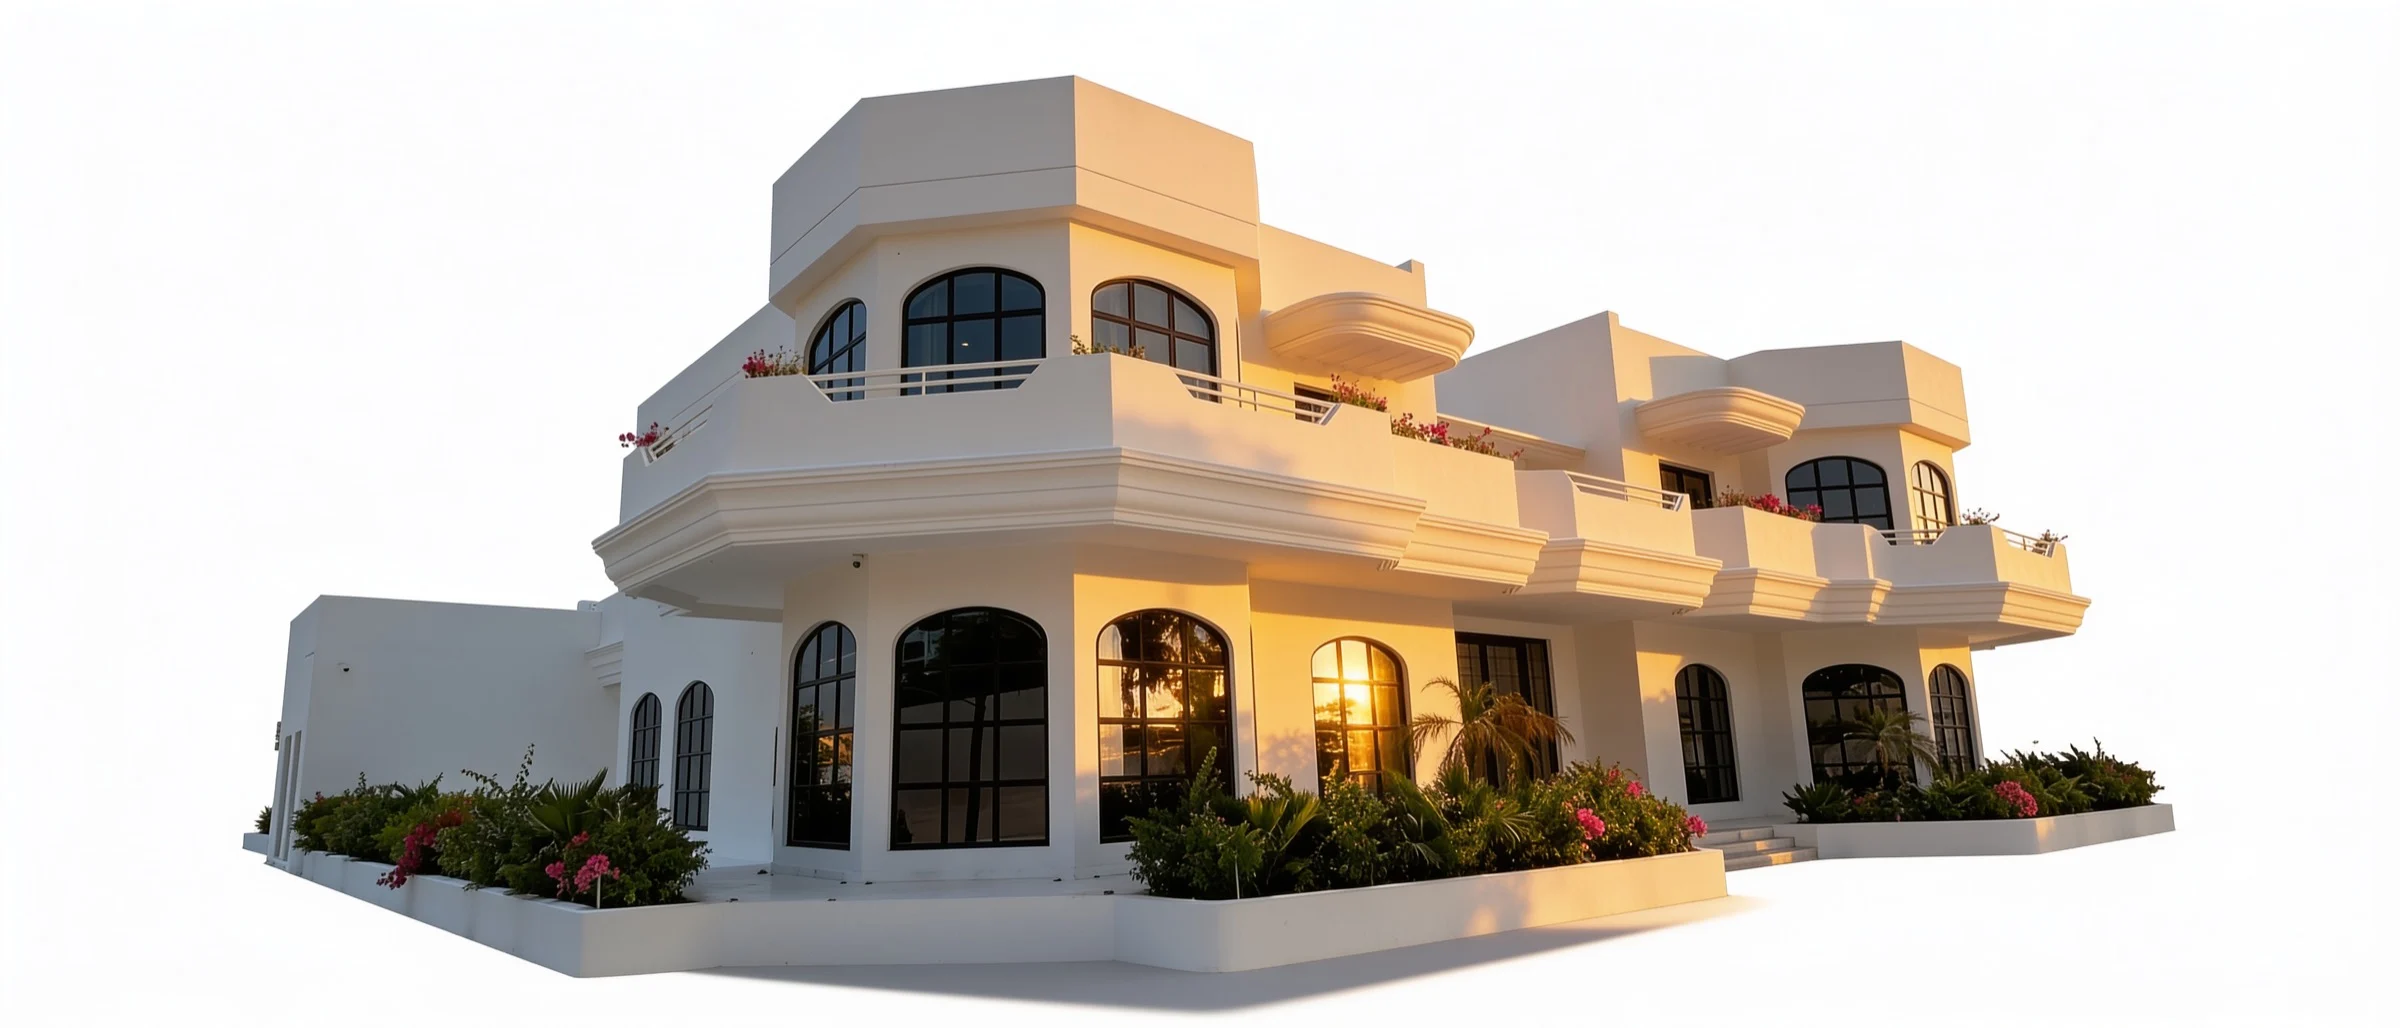
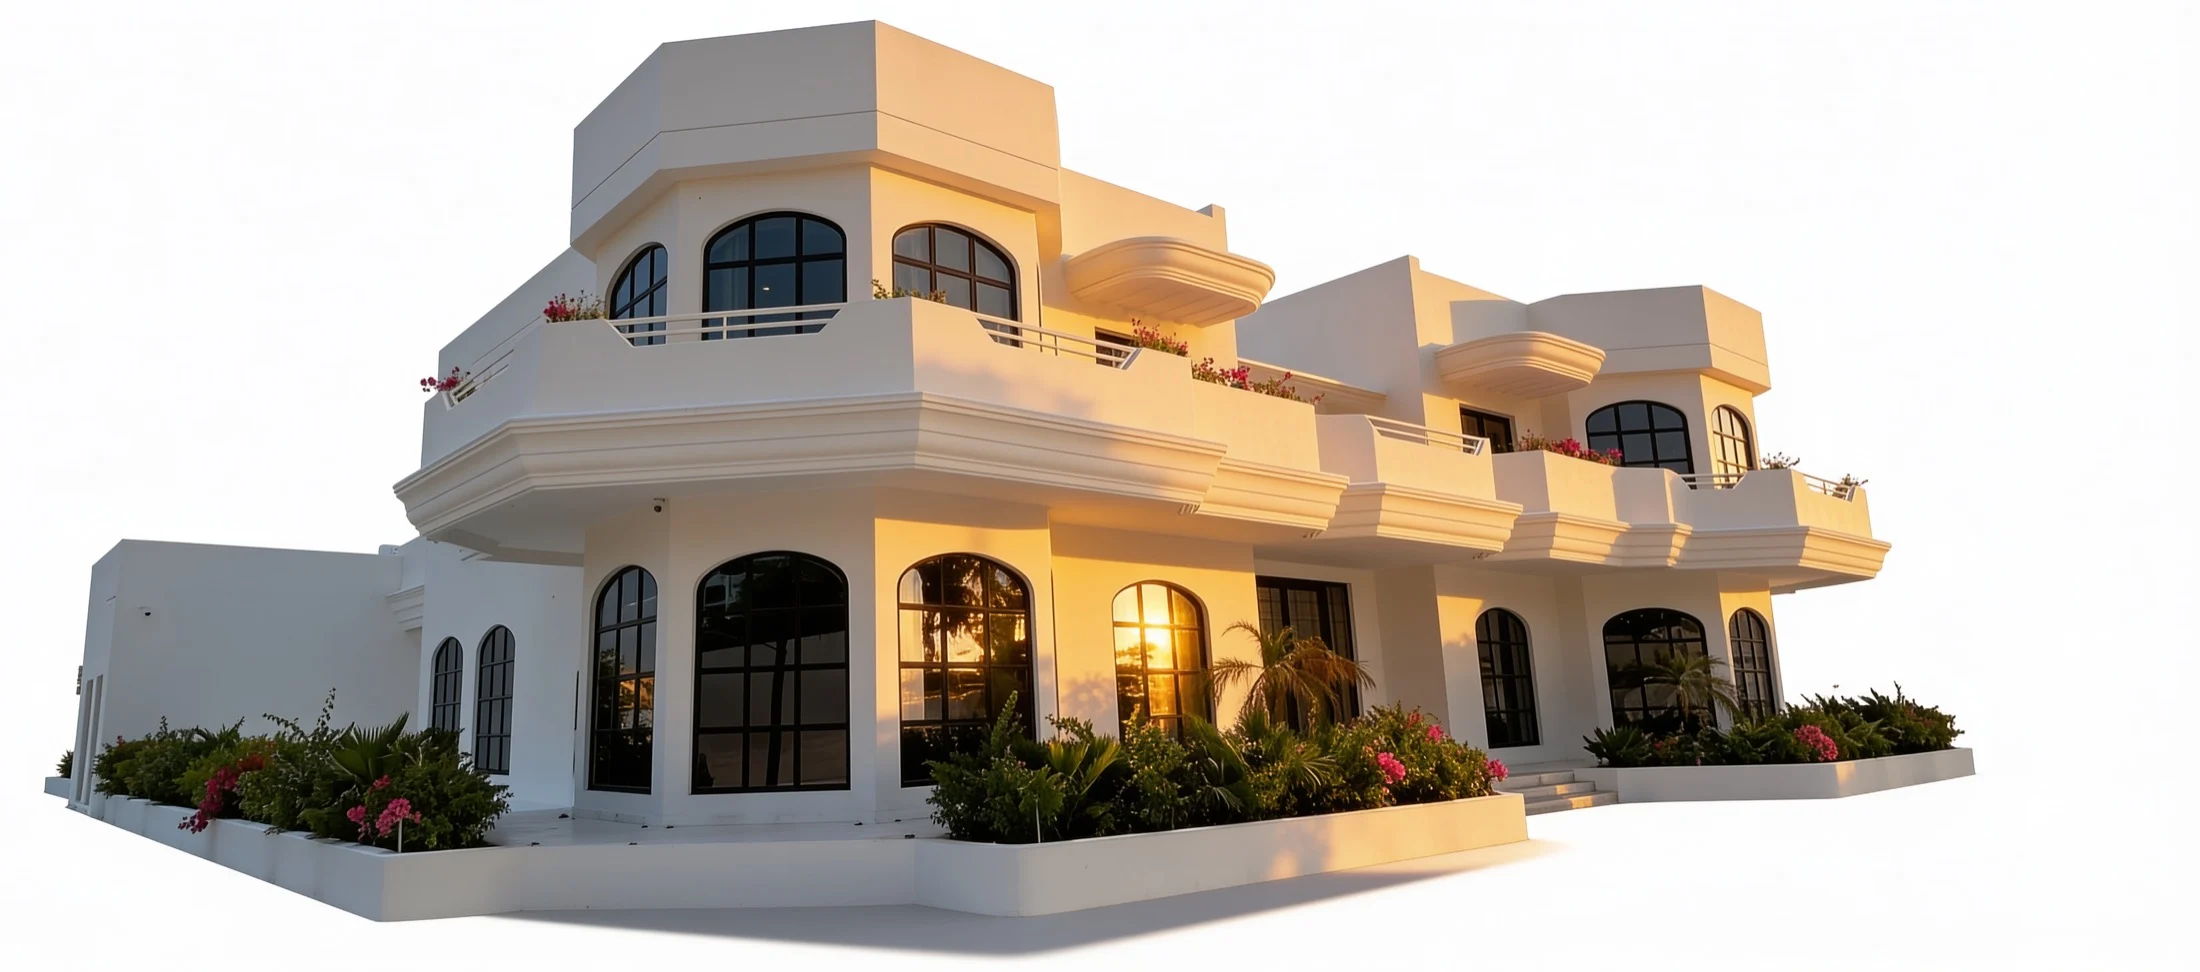
preview: villa floated to the side (text on reading side)

diff --git a/index.html b/index.html
@@ -185,15 +185,17 @@ html[data-lang="ar"] .intro__cue{ font-family:var(--ar-sans); letter-spacing:.02
 .intro__cue .bar{ width:1px; height:46px; background:var(--gold); transform-origin:top; animation:cue 2.4s var(--ease-in-out) infinite; }
 @keyframes cue{ 0%,100%{ transform:scaleY(.3); opacity:.4 } 50%{ transform:scaleY(1); opacity:1 } }
 
-/* ============================================================ 2 · HERO (light · text above, villa cut-out floating on white) */
-.hero{ min-height:100svh; background:var(--paper); position:relative; overflow:hidden; display:flex; flex-direction:column; }
-.hero__inner{ position:relative; z-index:2; flex:0 0 auto; width:100%; max-width:var(--maxw); margin:0 auto;
-  padding:clamp(104px,14vh,168px) var(--pad) clamp(12px,2vh,26px); color:var(--ink); }
+/* ============================================================ 2 · HERO (light · text on the reading side, villa cut-out floating on the other) */
+.hero{ min-height:100svh; background:var(--paper); position:relative; overflow:hidden; }
+.hero__inner{ position:relative; z-index:2; width:100%; max-width:var(--maxw); margin:0 auto; min-height:100svh;
+  display:flex; flex-direction:column; justify-content:center; align-items:flex-start;
+  padding:clamp(118px,16vh,190px) var(--pad) clamp(40px,7vh,90px); color:var(--ink); }
+.hero__inner > *{ max-width:min(46%,560px); }   /* keep text on its side, clear of the villa */
 .hero__eyebrow{ color:var(--gold-deep); }
 .hero__eyebrow::before{ background:var(--gold); }
-.hero__h{ font-size:clamp(2.4rem,4.6vw,5rem); margin:.4em 0 0; max-width:16ch; color:var(--ink); line-height:1.0; }
+.hero__h{ font-size:clamp(2.4rem,4.6vw,5rem); margin:.4em 0 0; max-width:13ch; color:var(--ink); line-height:1.0; }
 .hero__h em{ color:var(--gold-deep); font-style:italic; }
-html[data-lang="ar"] .hero__h{ max-width:18ch; line-height:1.16; }
+html[data-lang="ar"] .hero__h{ max-width:14ch; line-height:1.16; }
 html[data-lang="ar"] .hero__h em{ font-style:normal; color:var(--gold-deep); }
 .hero__cta{ display:flex; gap:14px 22px; flex-wrap:wrap; align-items:center; margin-top:clamp(26px,3.6vh,44px); }
 .hero__textlink{ display:inline-flex; align-items:center; gap:.7em; font-family:var(--sans); font-size:13px; letter-spacing:.08em; text-transform:uppercase; color:var(--ink); }
@@ -205,18 +207,17 @@ html[data-lang="ar"] .hero__textlink{ font-family:var(--ar-sans); letter-spacing
 html[data-lang="ar"] .hero__meta{ font-family:var(--ar-sans); letter-spacing:.02em; text-transform:none; font-size:12.5px; }
 .hero__meta::before{ content:""; width:26px; height:1px; background:var(--line); flex:0 0 auto; }
 .hero__meta .num{ letter-spacing:.1em; }
-/* the villa, cut out, floating across the bottom on white — in-flow so it never overlaps the text */
-.hero__media{ position:relative; z-index:1; flex:1 1 auto; min-height:0; pointer-events:none; }
-.hero__media picture{ display:block; width:100%; height:100%; }
-.hero__media img{ width:100%; height:100%; object-fit:contain; object-position:bottom center; }
-/* clean white floor so the soft cut-out base melts away */
-.hero::after{ content:""; position:absolute; left:0; right:0; bottom:0; height:84px; z-index:1; pointer-events:none;
-  background:linear-gradient(to top, var(--paper) 14%, rgba(255,255,255,0)); }
+/* the villa, cut out, floating on the END side (right in LTR / left in RTL) on white */
+.hero__media{ position:absolute; z-index:1; bottom:0; inset-inline-end:-2vw; width:min(58%,1100px); pointer-events:none; }
+.hero__media picture{ display:block; width:100%; }
+.hero__media img{ display:block; width:100%; height:auto; }
 @media(max-width:860px){
-  .hero__inner{ padding-top:clamp(98px,15vh,140px); }
-  /* narrow screens can't show the whole wide villa — fill the lower area with a building close-up instead of letterboxing */
-  .hero__media{ flex:1 1 auto; min-height:38svh; }
-  .hero__media img{ object-fit:cover; object-position:50% 30%; }
+  .hero{ display:flex; flex-direction:column; }
+  .hero__inner{ min-height:auto; display:block; padding:clamp(98px,15vh,140px) var(--pad) clamp(16px,2vh,28px); }
+  .hero__inner > *{ max-width:none; }
+  /* narrow screens stack — villa fills the lower band as a building close-up */
+  .hero__media{ position:relative; inset:auto; width:100%; flex:1 1 auto; min-height:38svh; }
+  .hero__media img{ height:100%; object-fit:cover; object-position:50% 30%; }
   .hero__h{ font-size:clamp(2.2rem,8vw,3.5rem); max-width:18ch; }
 }
 
@@ -441,7 +442,7 @@ html[data-lang="ar"] .menu__contact{ font-family:var(--ar-sans); }
     <picture>
       <source media="(max-width:860px)" type="image/webp" srcset="assets/villa-hero-1400.webp">
       <source type="image/webp" srcset="assets/villa-hero.webp">
-      <img src="assets/villa-hero.jpg" alt="BATO — the clinic villa in Al Safa, Dubai" loading="eager" fetchpriority="high" width="2400" height="1028">
+      <img src="assets/villa-hero.jpg" alt="BATO — the clinic villa in Al Safa, Dubai" loading="eager" fetchpriority="high" width="2200" height="972">
     </picture>
   </div>
 </section>

diff --git a/v6.html b/v6.html
@@ -185,15 +185,17 @@ html[data-lang="ar"] .intro__cue{ font-family:var(--ar-sans); letter-spacing:.02
 .intro__cue .bar{ width:1px; height:46px; background:var(--gold); transform-origin:top; animation:cue 2.4s var(--ease-in-out) infinite; }
 @keyframes cue{ 0%,100%{ transform:scaleY(.3); opacity:.4 } 50%{ transform:scaleY(1); opacity:1 } }
 
-/* ============================================================ 2 · HERO (light · text above, villa cut-out floating on white) */
-.hero{ min-height:100svh; background:var(--paper); position:relative; overflow:hidden; display:flex; flex-direction:column; }
-.hero__inner{ position:relative; z-index:2; flex:0 0 auto; width:100%; max-width:var(--maxw); margin:0 auto;
-  padding:clamp(104px,14vh,168px) var(--pad) clamp(12px,2vh,26px); color:var(--ink); }
+/* ============================================================ 2 · HERO (light · text on the reading side, villa cut-out floating on the other) */
+.hero{ min-height:100svh; background:var(--paper); position:relative; overflow:hidden; }
+.hero__inner{ position:relative; z-index:2; width:100%; max-width:var(--maxw); margin:0 auto; min-height:100svh;
+  display:flex; flex-direction:column; justify-content:center; align-items:flex-start;
+  padding:clamp(118px,16vh,190px) var(--pad) clamp(40px,7vh,90px); color:var(--ink); }
+.hero__inner > *{ max-width:min(46%,560px); }   /* keep text on its side, clear of the villa */
 .hero__eyebrow{ color:var(--gold-deep); }
 .hero__eyebrow::before{ background:var(--gold); }
-.hero__h{ font-size:clamp(2.4rem,4.6vw,5rem); margin:.4em 0 0; max-width:16ch; color:var(--ink); line-height:1.0; }
+.hero__h{ font-size:clamp(2.4rem,4.6vw,5rem); margin:.4em 0 0; max-width:13ch; color:var(--ink); line-height:1.0; }
 .hero__h em{ color:var(--gold-deep); font-style:italic; }
-html[data-lang="ar"] .hero__h{ max-width:18ch; line-height:1.16; }
+html[data-lang="ar"] .hero__h{ max-width:14ch; line-height:1.16; }
 html[data-lang="ar"] .hero__h em{ font-style:normal; color:var(--gold-deep); }
 .hero__cta{ display:flex; gap:14px 22px; flex-wrap:wrap; align-items:center; margin-top:clamp(26px,3.6vh,44px); }
 .hero__textlink{ display:inline-flex; align-items:center; gap:.7em; font-family:var(--sans); font-size:13px; letter-spacing:.08em; text-transform:uppercase; color:var(--ink); }
@@ -205,18 +207,17 @@ html[data-lang="ar"] .hero__textlink{ font-family:var(--ar-sans); letter-spacing
 html[data-lang="ar"] .hero__meta{ font-family:var(--ar-sans); letter-spacing:.02em; text-transform:none; font-size:12.5px; }
 .hero__meta::before{ content:""; width:26px; height:1px; background:var(--line); flex:0 0 auto; }
 .hero__meta .num{ letter-spacing:.1em; }
-/* the villa, cut out, floating across the bottom on white — in-flow so it never overlaps the text */
-.hero__media{ position:relative; z-index:1; flex:1 1 auto; min-height:0; pointer-events:none; }
-.hero__media picture{ display:block; width:100%; height:100%; }
-.hero__media img{ width:100%; height:100%; object-fit:contain; object-position:bottom center; }
-/* clean white floor so the soft cut-out base melts away */
-.hero::after{ content:""; position:absolute; left:0; right:0; bottom:0; height:84px; z-index:1; pointer-events:none;
-  background:linear-gradient(to top, var(--paper) 14%, rgba(255,255,255,0)); }
+/* the villa, cut out, floating on the END side (right in LTR / left in RTL) on white */
+.hero__media{ position:absolute; z-index:1; bottom:0; inset-inline-end:-2vw; width:min(58%,1100px); pointer-events:none; }
+.hero__media picture{ display:block; width:100%; }
+.hero__media img{ display:block; width:100%; height:auto; }
 @media(max-width:860px){
-  .hero__inner{ padding-top:clamp(98px,15vh,140px); }
-  /* narrow screens can't show the whole wide villa — fill the lower area with a building close-up instead of letterboxing */
-  .hero__media{ flex:1 1 auto; min-height:38svh; }
-  .hero__media img{ object-fit:cover; object-position:50% 30%; }
+  .hero{ display:flex; flex-direction:column; }
+  .hero__inner{ min-height:auto; display:block; padding:clamp(98px,15vh,140px) var(--pad) clamp(16px,2vh,28px); }
+  .hero__inner > *{ max-width:none; }
+  /* narrow screens stack — villa fills the lower band as a building close-up */
+  .hero__media{ position:relative; inset:auto; width:100%; flex:1 1 auto; min-height:38svh; }
+  .hero__media img{ height:100%; object-fit:cover; object-position:50% 30%; }
   .hero__h{ font-size:clamp(2.2rem,8vw,3.5rem); max-width:18ch; }
 }
 
@@ -441,7 +442,7 @@ html[data-lang="ar"] .menu__contact{ font-family:var(--ar-sans); }
     <picture>
       <source media="(max-width:860px)" type="image/webp" srcset="assets/villa-hero-1400.webp">
       <source type="image/webp" srcset="assets/villa-hero.webp">
-      <img src="assets/villa-hero.jpg" alt="BATO — the clinic villa in Al Safa, Dubai" loading="eager" fetchpriority="high" width="2400" height="1028">
+      <img src="assets/villa-hero.jpg" alt="BATO — the clinic villa in Al Safa, Dubai" loading="eager" fetchpriority="high" width="2200" height="972">
     </picture>
   </div>
 </section>